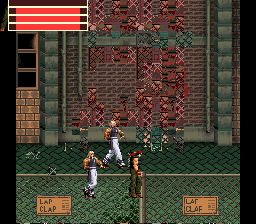
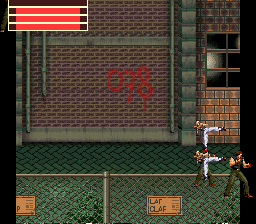
Fix corrupted scene_scrolled.png; document real frontpanel-occlusion gap
scene_scrolled.png showed real cache-eviction garbage (a checkered pattern
across the wall) -- not a false alarm. Root cause: the capture script drove
the camera via a scripted WRAM position write at ~360px/sec, 3x the real
dpad cap (PLAYER_SPEED=2 -> 120px/sec), with no settle time before
snapshotting, so it photographed the streaming tile cache mid-thrash. A
direct probe confirmed 189/896 visible tilemap entries were pending-repair
(stale slot data) at capture time.

Recaptured at real gameplay speed with the resolver given time to catch up,
and verified 0 pending-repair entries in the visible viewport via the same
Tile2Slot-consistency ground truth phase9_syncscroll_test2.py uses, before
saving. The other three screenshots (scene.png/scene_action.png/
scene_hud_depleted.png) were independently checked the same way and were
already clean -- they never scripted camera movement, only elapsed time.

Also documented a second, separate, real issue the fence in that shot
exposed: BOR's frontpanel layer is supposed to render in front of
characters (level_parse.py's own comment says so), but this converter
bakes it into the same flat BG1 plane characters (OBJ sprites) always
render above, so it ends up behind them instead. Not new to this session
-- the boss level has a frontpanel too -- just not previously documented
anywhere. Added to README's "Not built" list with what a real fix would
require, rather than leaving it as a silent surprise in the screenshots.

diff --git a/README.md b/README.md
@@ -24,11 +24,13 @@ Nothing reacts at 0 HP: there is no damage system, just the value and its bar.
 
 ### Scrolling
 
-The level extends 1920px past one screen (256px), and the camera follows the player. The shot below is further into the same level — the streaming tile cache has evicted the opening alley's tiles from VRAM and resolved new ones (chain-link fence, ivy-covered brick) as the camera moved past them, not just panned a single static image:
+The level extends 1920px past one screen (256px), and the camera follows the player. The shot below is further into the same level, past a full screen of the opening alley — the streaming tile cache has evicted those tiles from VRAM and resolved new ones (fresh graffiti, a different brick pattern) as the camera moved past them, not just panned a single static image. It was captured at the real dpad movement speed (`PLAYER_SPEED`) with the resolver given time to settle, and checked against ground truth (0 stale tiles in the visible viewport) before saving — a first attempt at this shot used an unrealistically fast scripted camera jump and genuinely showed cache-eviction garbage; that was a bug in the capture method, not the engine, but it's worth saying plainly rather than quietly swapping the image.
 
-![The camera scrolled further into the level; new backdrop content (chain-link fence, ivy-covered brick) has streamed in](docs/screenshots/scene_scrolled.png)
+![The camera scrolled further into the level, past the opening alley; a new graffiti/brick section has streamed in, with the chain-link fence in the foreground](docs/screenshots/scene_scrolled.png)
 
 The scroll is real hardware state, not a screen-space camera trick: `$210D` (BG1HOFS) is written from the same eased `Screen_PosX` every vblank, and the player's/AI's OAM X positions are computed screen-relative (world X minus camera X) every frame, including deriving OAM's X-high bit when that goes negative-of-256. There's still no vertical or diagonal scroll — BOR levels are horizontal-only side-scrollers, so none is planned.
+
+**The fence in that shot is also a good example of the frontpanel-layering limitation** described under [Not built](#not-built) below — it's meant to occlude the characters and currently doesn't.
 
 ---
 
@@ -106,6 +108,7 @@ The scroll is real hardware state, not a screen-space camera trick: `$210D` (BG1
 ### Not built
 
 Scheduled — see [plan.md](plan.md) Part Two for step-by-step plans:
+- **Frontpanel foreground art renders BEHIND characters, not in front of them — a real, structural limitation, not a bug in this session's work.** BOR's `frontpanel` layer (e.g. stage 1A's chain-link fence) is meant to occlude characters (`tools/bg_converter/level_parse.py` calls it "overlay drawn in front" of its own accord). This converter bakes background+panels+frontpanel into one flat static BG1 image, and hardware OBJ sprites (the characters) always render above BG1 in this engine, so the frontpanel ends up behind the characters instead — the opposite of real BOR's depth ordering. Not new to this session (the boss level has a frontpanel too, `data\bgs\boss\front.gif`); stage 1A's fence just makes it obvious. Fixing this for real needs the frontpanel split into its own layer with correct SNES priority (e.g. moved onto BG3 with an OBJ-behind-BG3 priority bit, freeing up the HUD's current BG3 usage or sharing it), not something to paper over with capture angle choices.
 - **No damage system.** `CHAR_HP` exists and the HUD draws it, but nothing dies, respawns, or reacts at 0 — the spec scopes the PoC to hit *reaction*.
 - **No SFX are wired to gameplay.** Music now plays (see Phase 7 above), but nothing triggers a sound on an attack or a hit. This is no longer blocked — it is just unstarted, and it needs content before it needs code: `soundwork/tad/build/audio-enums.inc` currently exports exactly one song (`s02_coin`) and one placeholder effect (`sfx_stub = 0`), so a punch sound has to be authored in the Terrific Audio Driver project first.
 - **Real-play scroll-lag under sustained held-dpad input is still unmeasured for the streaming path** (plan.md §2.8): the full-level traversal verified in Current Status above used a scripted WRAM position sweep, not sustained realistic input, and there's still no self-contained `phase9.py` regression gate (the two `phase9_*.py` scripts require Mesen2 and real wall-clock time). Neither blocks the level from working — see Current Status — but both are worth closing before trusting this on an even bigger level. The old static whole-level path (`out/bg_boss_level`, plan.md §2.7) is fully intact and still buildable if needed.
